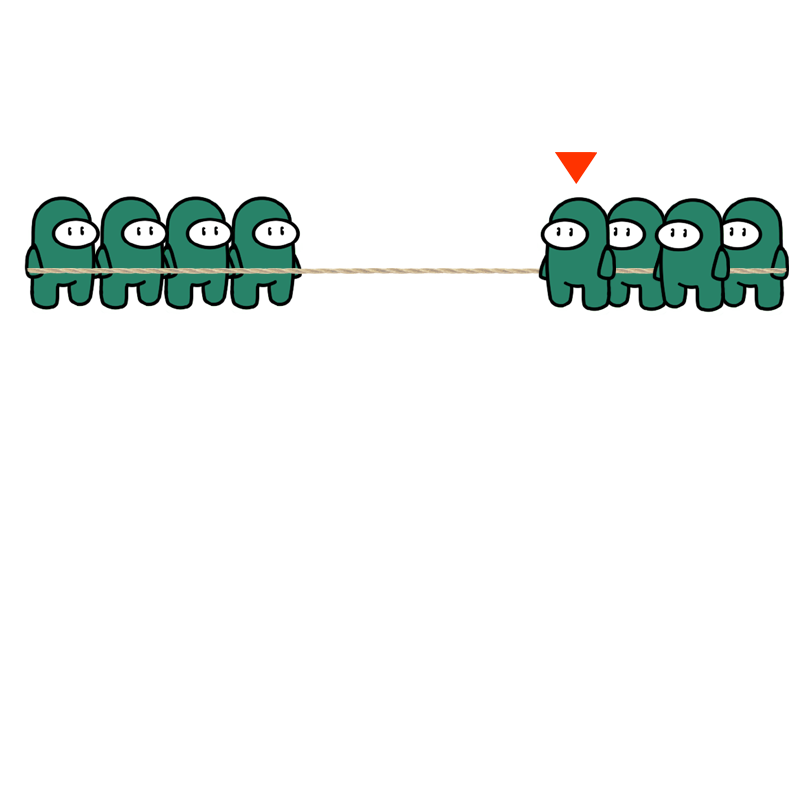
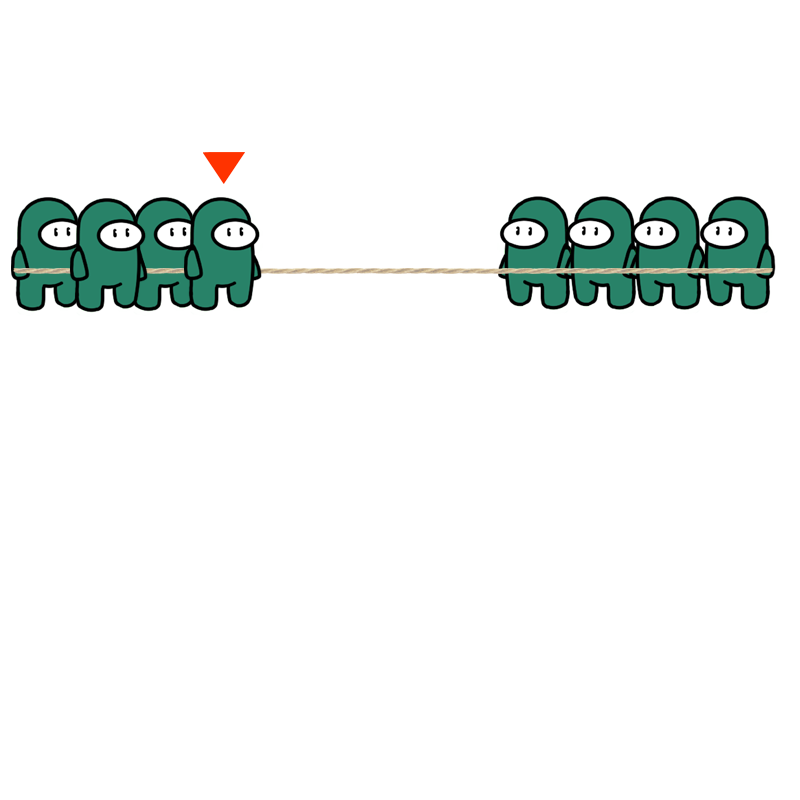
11.15 오한음 Passing score to upper

Changed region(s): [[0.5938, 0.1875, 1.0, 0.4062], [0.0, 0.1875, 0.4062, 0.4062]]

diff --git a/Games/TugOfWar/TugOfWar.py b/Games/TugOfWar/TugOfWar.py
@@ -6,16 +6,15 @@ import pygame.time
 from Games.game_settings import *
 
 # 이미지 좌표
-imgChar_location = 'TugOfWar/Images/TOW_Char.png'
-imgBG_location = 'TugOfWar/Images/TugOfWarBack.png'
+CHARACTER_LOCATION = 'TugOfWar/Images/TOW_Char.png'
+BACKGROUND_LOCATION = 'TugOfWar/Images/TugOfWarBack.png'
 
 
 class TugOfWar:
     # 클래스 변수
+    NUMBER_OF_CLICKS_TO_CLEAR = 15  # 승리 조건
     WIN_LEVEL = 5  # LEVEL 5 통과하면 게임 끝
-    numClick = 15  # level 마다 눌러야하는 키 수
-    TotalTime = 100
-    wrong_click_lim = 3
+    TOTAL_TIME = 40
 
     def __init__(self, title, width, height):
         self.title = title
@@ -27,8 +26,8 @@ class TugOfWar:
         self.screen.fill(WHITE)
         pygame.display.set_caption(title)
         # 이미지 불러오기
-        self.char = pygame.image.load(get_abs_path(imgChar_location))
-        self.imgBG = pygame.image.load(get_abs_path(imgBG_location))
+        self.char = pygame.image.load(get_abs_path(CHARACTER_LOCATION))
+        self.imgBG = pygame.image.load(get_abs_path(BACKGROUND_LOCATION))
         # 타이머 설정
         self.game_over_timer = None
         self.a_TIMER = False
@@ -42,7 +41,8 @@ class TugOfWar:
         #             if event.key == pygame.K_q or event.key == pygame.K_ESCAPE:
         #                 return
         #             elif event.key == pygame.K_e:
-        self.run_game_loop(level, score)
+        score = self.run_game_loop(level, score)
+        return score
         # 배경 설정
         # self.screen.fill(WHITE)
         # imgBG = pygame.transform.scale(self.imgBG, (self.screen.get_width(), self.screen.get_height()))
@@ -128,7 +128,7 @@ class TugOfWar:
         click_wrong = False
         aTime_init = True
         click = 0
-        nClick = level * self.numClick  # level마다 클릭해야 하는 횟수
+        nClick = level * self.NUMBER_OF_CLICKS_TO_CLEAR
         game_over_click = 2 * nClick  # 클릭해야하는 횟수 이 값 넘기면 게임 오버
         wrong_click_num = 0  # 잘못 클릭한 횟수
         A_TIME = random.randint(3, 6)  # A 누를 수 있는 시간
@@ -136,7 +136,7 @@ class TugOfWar:
         all_left_time = None
 
         # 게임 오버(전체 시간) 타이머 설정
-        self.game_over_timer = GameOverTimer(self.TotalTime)
+        self.game_over_timer = GameOverTimer(self.TOTAL_TIME)
 
         start_ticks = pygame.time.get_ticks()
         a_ticks = pygame.time.get_ticks()
@@ -170,7 +170,6 @@ class TugOfWar:
                 self.ref_h)
             # 남은 클릭에러 허용 횟수 화면에 표시
             # message_to_screen_left(
-            #     self.screen, 'Left Time : {}'.format(self.wrong_click_lim - wrong_click_num), WHITE, level_font,
             #     self.screen.get_width() / 8, self.screen.get_height() / 8, self.ref_w, self.ref_h)
             # 남은 클릭 수 화면에 표시
             message_to_screen_center(
@@ -224,25 +223,11 @@ class TugOfWar:
             if d_timer > 0:
                 if key[pygame.K_d] is False:
                     click -= 0.1
-                # elif key[pygame.K_a]:
-                #     click -= 0.2
             elif d_timer < 0:
                 if key[pygame.K_a]:
                     click += 0.15
 
-            # 클릭 잘못한 횟수 초과 시
-            # if wrong_click_num == self.wrong_click_lim:
-            #     click_wrong = True
-
-            # 키 잘 입력 or 전체 시간 끝남 or 남은 클릭 수 지정해둔 클릭 수 넘어가면 게임 종료
-            # if click_wrong:
-            #     message_to_screen_center(
-            #         self.screen, '오타 횟수 초과', RED, korean_font_small_size,
-            #         self.screen.get_height() / 1.7, self.ref_w, self.ref_h)
-            #     self.lose_game()
-            #     did_win = False
-            #     time.sleep(1.5)
-            #     break
+            # GAME OVER CONDITIONS
             if all_left_time <= 0:
                 message_to_screen_center(
                     self.screen, '시간 초과', RED, korean_font_small_size,
@@ -265,7 +250,7 @@ class TugOfWar:
                 did_win = True
                 break
             pygame.display.update()
-
+            clock.tick(120)
         if did_win:
             # if level >= self.WIN_LEVEL:
             #     self.win_game()
@@ -280,6 +265,7 @@ class TugOfWar:
                                      self.ref_h)
             pygame.display.update()
             clock.tick(0.5)
+            print(all_left_time)
             return all_left_time
 
         # elif self.game_restart():
@@ -293,10 +279,10 @@ class TugOfWar:
             pygame.display.update()
             clock.tick(0.5)
             return
-        clock.tick(60)
 
 
 def start_game(level, score):
     pygame.init()
     new_game = TugOfWar(SCREEN_TITLE, SCREEN_WIDTH, SCREEN_HEIGHT)
-    new_game.start_game(level, score)
+    score = new_game.start_game(level, score)
+    return score

diff --git a/main.py b/main.py
@@ -12,21 +12,21 @@ if __name__ == "__main__":
     LEVEL = 1
 
     while True:
-        mugunghwa_score = start_mugunghwa_game(LEVEL, SCORE)
-        if mugunghwa_score:
-            SCORE += mugunghwa_score
-        else:
-            break
-        dalgona_score = start_dalgona_game(LEVEL, SCORE)
-        if dalgona_score:
-            SCORE += dalgona_score
-        else:
-            break
-        marble_score = start_marble_game(LEVEL, SCORE)
-        if marble_score:
-            SCORE += marble_score
-        else:
-            break
+        # mugunghwa_score = start_mugunghwa_game(LEVEL, SCORE)
+        # if mugunghwa_score:
+        #     SCORE += mugunghwa_score
+        # else:
+        #     break
+        # dalgona_score = start_dalgona_game(LEVEL, SCORE)
+        # if dalgona_score:
+        #     SCORE += dalgona_score
+        # else:
+        #     break
+        # marble_score = start_marble_game(LEVEL, SCORE)
+        # if marble_score:
+        #     SCORE += marble_score
+        # else:
+        #     break
         tug_score = start_tug_game(LEVEL, SCORE)
         if tug_score:
             SCORE += tug_score

diff --git a/Games/Mugunghwa/Mugunghwa_Game.py b/Games/Mugunghwa/Mugunghwa_Game.py
@@ -163,9 +163,9 @@ class Game:
         npc_1 = self.create_npc(NPC_1_CODE)
         npc_2 = self.create_npc(NPC_2_CODE)
         npc_3 = self.create_npc(NPC_3_CODE)
-        npc_1.BASE_SPEED = (level * 2) + self.NPC_1_SPEED
-        npc_2.BASE_SPEED = (level * 2) + self.NPC_2_SPEED
-        npc_3.BASE_SPEED = (level * 2) + self.NPC_3_SPEED
+        npc_1.BASE_SPEED = (level * 3) + self.NPC_1_SPEED
+        npc_2.BASE_SPEED = (level * 3) + self.NPC_2_SPEED
+        npc_3.BASE_SPEED = (level * 3) + self.NPC_3_SPEED
         npcs = [npc_1, npc_2, npc_3]
 
         # AIM

diff --git a/Games/MarbleGame/marble_game.py b/Games/MarbleGame/marble_game.py
@@ -135,7 +135,7 @@ class MarbleGame:
                                  self.width / 3,
                                  self.ref_w,
                                  self.ref_h)
-        message_to_screen_center(self.game_screen, '다음 게임은 무궁화 게임입니다. ', WHITE, korean_font,
+        message_to_screen_center(self.game_screen, '다음 게임은 구슬 홀짝입니다. ', WHITE, korean_font,
                                  self.width / 2,
                                  self.ref_w,
                                  self.ref_h)

diff --git a/Games/Mugunghwa/game_object.py b/Games/Mugunghwa/game_object.py
@@ -111,7 +111,7 @@ class Aim(NPC):
 
 
 class PC(GameObject):  # 플레이어 캐릭터
-    BASE_SPEED = 2.5
+    BASE_SPEED = 4
     object_image = pygame.image.load(get_abs_path(PC_FRONT_LOCATION))
     player_character = pygame.transform.scale(object_image, (50, 70))
 
